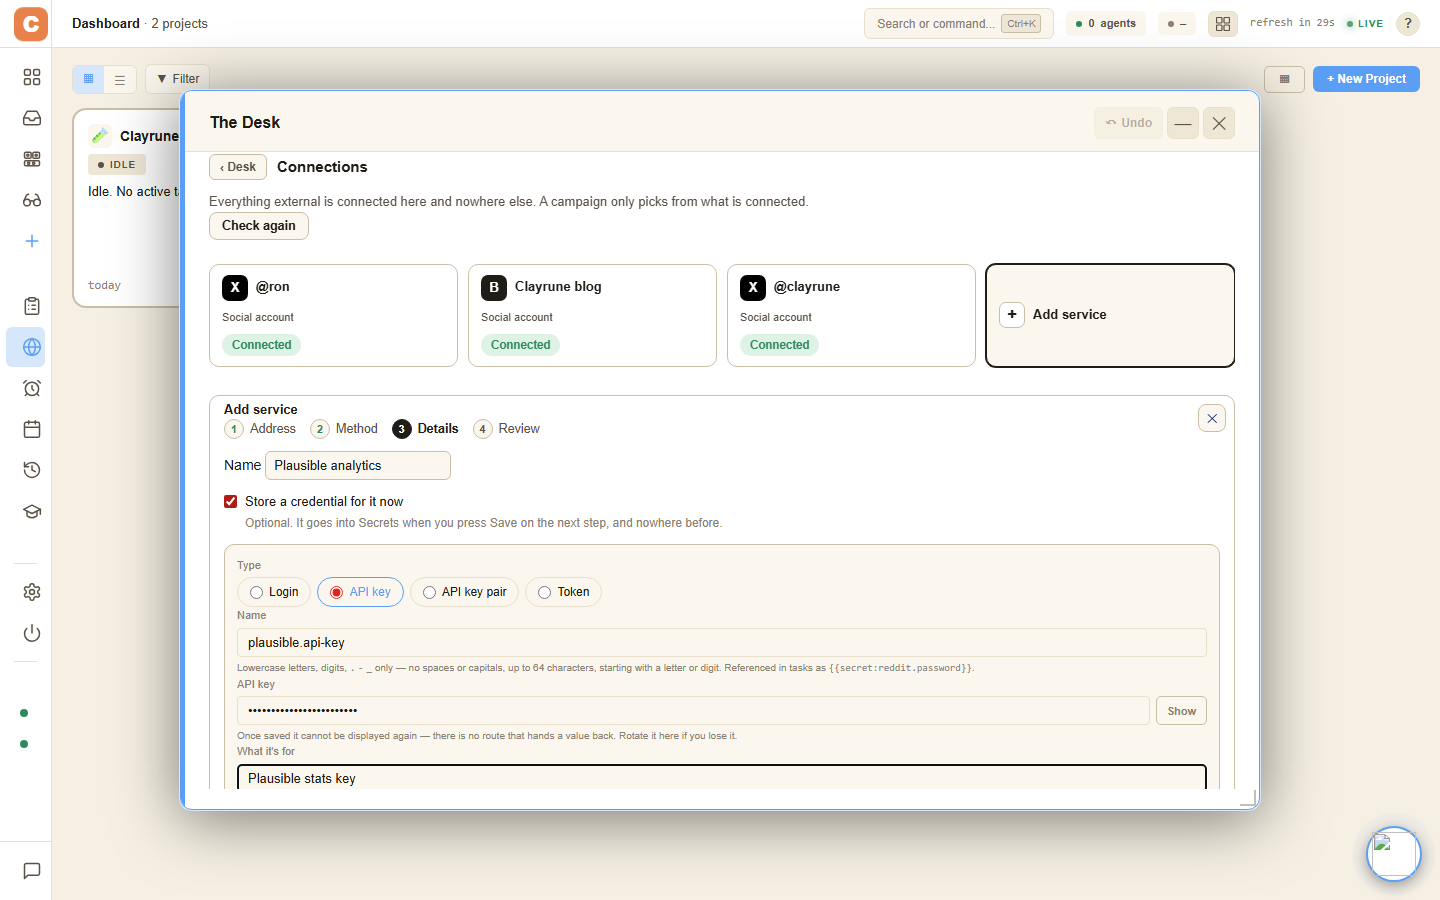
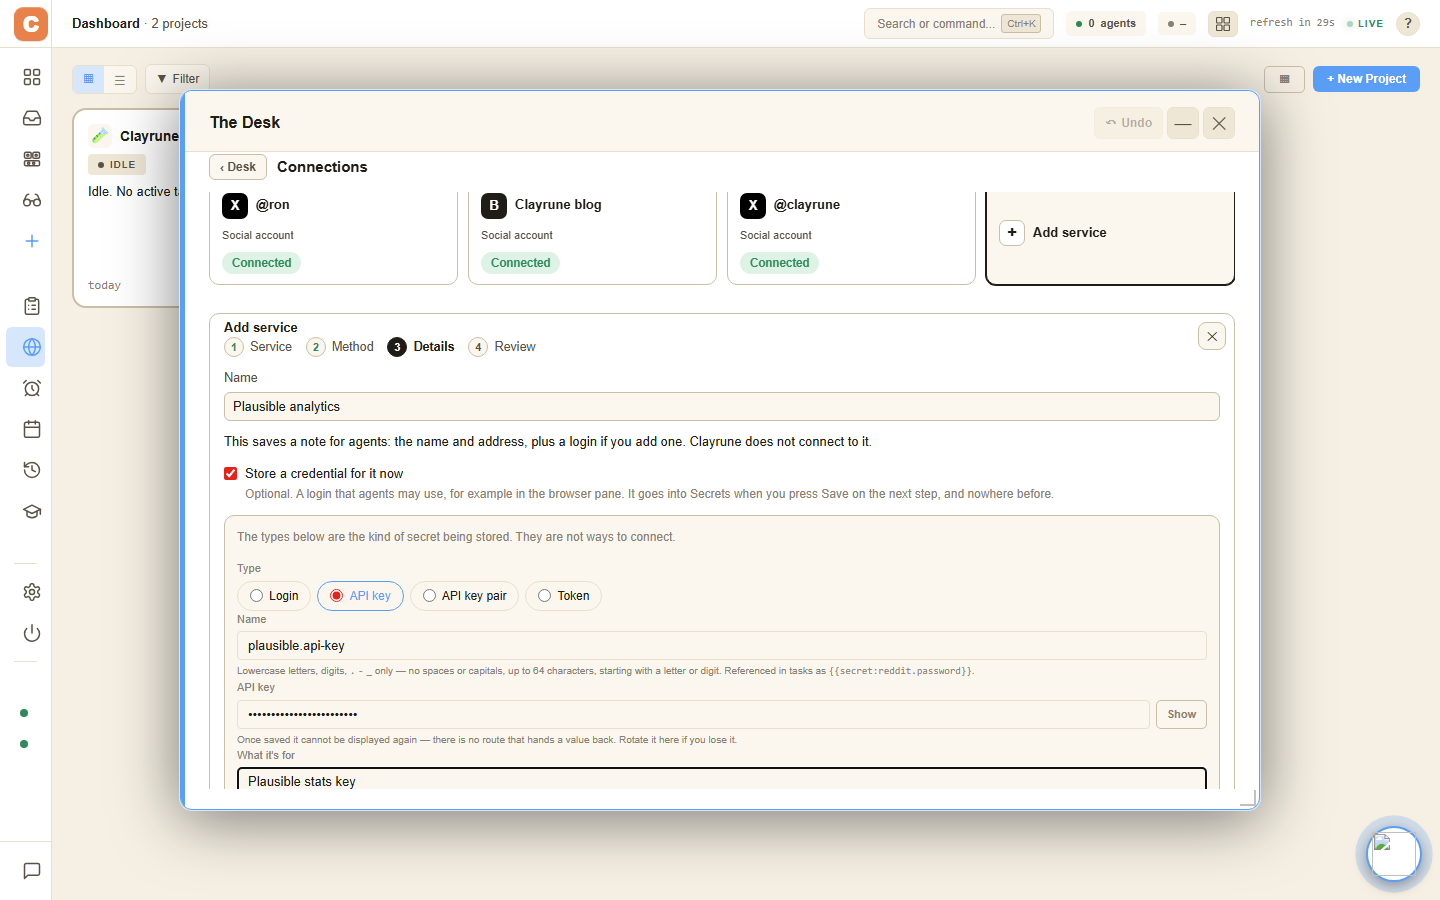
Desk connect: Save for agents says plainly it connects to nothing
Details note and credential hint, Review 'Connects: No' row, Method-step
missing-route sentence for recognised services with no usable route (LinkedIn).
Fallback option text reworded. No route or behaviour change.

diff --git a/static/js/desk-v1-connect-flow.js b/static/js/desk-v1-connect-flow.js
@@ -144,6 +144,19 @@
         </div>`;
   }
 
+  // A recognised service whose only real rows are guidance (LinkedIn today): say
+  // which route is missing, from that row's own guidance, and that bringing your
+  // own MCP server or API is not available yet. A sentence, never a button.
+  function _missingRouteHTML(info) {
+    if (!info.service) return '';
+    const real = info.options.filter((o) => o.method !== 'save_for_agents');
+    if (real.some((o) => o.support === 'available')) return '';
+    const row = real.find((o) => o.support === 'restricted') || real.find((o) => o.method !== 'mcp') || real[0];
+    if (!row) return '';
+    const why = String(row.guidance || '').replace(/^Information only:\s*/i, '');
+    return `<div class="desk-v1-cf-missing" data-cf-missing>No way to connect ${esc(info.service.label)} is open yet. The route that is missing: ${esc(row.title)}. ${esc(why)} Adding your own MCP server or API for it is not available yet; it is coming.</div>`;
+  }
+
   function _methodHTML(ctx) {
     const info = S.info;
     const known = info.service
@@ -152,6 +165,7 @@
     return `
         <div class="desk-v1-cf-host" data-cf-host>${esc(info.host)}${info.path && info.path !== '/' ? `<span class="desk-v1-cf-path">${esc(info.path)}</span>` : ''}</div>
         ${known}
+        ${_missingRouteHTML(info)}
         ${window.DeskV1ConnectDiscover ? window.DeskV1ConnectDiscover.html(info) : ''}
         <div class="desk-v1-cf-options" data-cf-options role="radiogroup" aria-label="Connection method">${info.options.map((o) => _optionHTML(o, ctx)).join('')}</div>
         <div class="desk-v1-rules-hint">Recognising a service is not support: a method marked “Information only” or “Restricted” cannot be set up from here.</div>
@@ -176,9 +190,10 @@
         <form class="desk-v1-cf-form" data-cf-details-form autocomplete="off" novalidate>
           <label class="desk-v1-conn-add-field">Name
             <input type="text" class="desk-v1-rules-textinput" data-cf-name data-cf-focus maxlength="80" value="${esc(S.name)}" placeholder="e.g. Plausible analytics"></label>
+          <div class="desk-v1-cf-note" data-cf-d-note>This saves a note for agents: the name and address, plus a login if you add one. Clayrune does not connect to it.</div>
           <label class="desk-v1-cf-check"><input type="checkbox" data-cf-usecred ${S.useCred ? 'checked' : ''}>
-            <span>Store a credential for it now<span class="desk-v1-rules-hint">Optional. It goes into Secrets when you press Save on the next step, and nowhere before.</span></span></label>
-          <div class="desk-v1-cf-cred" data-cf-cred-fields ${S.useCred ? '' : 'hidden'}><div data-cf-form-slot></div></div>
+            <span>Store a credential for it now<span class="desk-v1-rules-hint">Optional. A login that agents may use, for example in the browser pane. It goes into Secrets when you press Save on the next step, and nowhere before.</span></span></label>
+          <div class="desk-v1-cf-cred" data-cf-cred-fields ${S.useCred ? '' : 'hidden'}><div class="desk-v1-rules-hint" data-cf-d-typehint>The types below are the kind of secret being stored. They are not ways to connect.</div><div data-cf-form-slot></div></div>
           ${S.error ? _msg('error', S.error) : ''}
           ${_actions(true, '<button type="submit" class="desk-v1-conn-btn desk-v1-conn-btn-inline desk-v1-cf-primary" data-cf-next>Review</button>')}
         </form>`;
@@ -226,6 +241,7 @@
           <div><dt>Service</dt><dd data-cf-r-name>${esc(S.name)}</dd></div>
           <div><dt>Address</dt><dd data-cf-r-url>${esc(S.info.url)}</dd></div>
           <div><dt>Method</dt><dd data-cf-r-method>Save for agents</dd></div>
+          <div><dt>Connects</dt><dd data-cf-r-connects>No. Agents see this record only.</dd></div>
         </dl>
         <div data-cf-r-credbox></div>
         <div class="desk-v1-rules-hint" data-cf-r-honest>Save keeps the service where agents can see it. Clayrune does not connect to it or post to it. Saving asks for your dashboard passcode once; nothing has been written yet.</div>

diff --git a/static/css/desk-v1-connect-flow.css b/static/css/desk-v1-connect-flow.css
@@ -14,6 +14,8 @@
 .desk-v1-cf-host { font-size: 15px; font-weight: 700; overflow-wrap: anywhere; }
 .desk-v1-cf-path { font-weight: 400; color: var(--text-dim); font-size: 12.5px; margin-left: 2px; }
 .desk-v1-cf-known { font-size: 12.5px; color: var(--text-dim); }
+.desk-v1-cf-missing { font-size: 12.5px; line-height: 1.45; color: var(--text); padding: 8px 10px; border-left: 3px solid var(--amber-text, var(--border2)); background: var(--surface); border-radius: 6px; overflow-wrap: anywhere; }
+.desk-v1-cf-note { font-size: 13px; line-height: 1.45; color: var(--text); overflow-wrap: anywhere; }
 .desk-v1-cf-options { display: flex; flex-direction: column; gap: 8px; }
 .desk-v1-cf-option { display: flex; align-items: flex-start; gap: 10px; padding: 10px 12px; border: 1px solid var(--border2); border-radius: 10px; background: var(--surface); min-width: 0; }
 .desk-v1-cf-option-pick { cursor: pointer; }

diff --git a/mc/desk_connect/registry.py b/mc/desk_connect/registry.py
@@ -45,8 +45,8 @@ FALLBACK_OPTION: dict[str, Any] = {
     'support': 'available',
     'title': 'Save for agents',
     'evidence': 'Always available',
-    'guidance': ('Clayrune remembers the service and, if you give one, where its credential is kept, '
-                 'so agents can see it. Clayrune does not connect to it or post to it.'),
+    'guidance': ('Saves a note for agents: the name and address, plus the name of a login if you add one. '
+                 'Clayrune does not connect to it, sign in to it or post to it.'),
 }
 
 

diff --git a/CHANGELOG.md b/CHANGELOG.md
@@ -6,6 +6,17 @@
 > Cloud Run service, keystore namespace) intentionally remain "mission-control"
 > to avoid breaking existing installs.
 
+## [2026-10-05] — Desk connect: "Save for agents" now says it connects to nothing
+
+- Details step: a plain line above the credential box says this saves a note for agents (name,
+  address, and a login if you add one) and that Clayrune does not connect to it. The credential
+  hint says the login is for agents to use, for example in the browser pane, and the type list is
+  labelled as the kind of secret, not a way to connect.
+- Review step: a "Connects" row reads "No. Agents see this record only."
+- Method step: a recognised service with no usable route (LinkedIn today) names the missing route
+  from its own guidance and says that adding your own MCP server or API for it is not available
+  yet. Words only; no button, no new option. No route or behaviour change.
+
 ## [2026-10-05] — Desk: detect connection details for any MCP server or API you choose
 
 - New `POST /api/desk/connect/detect` (people only, not agent sessions) reads an npm or PyPI
